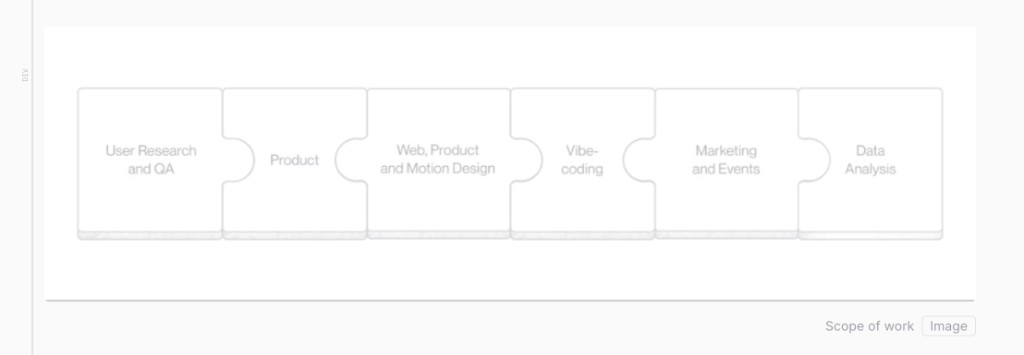
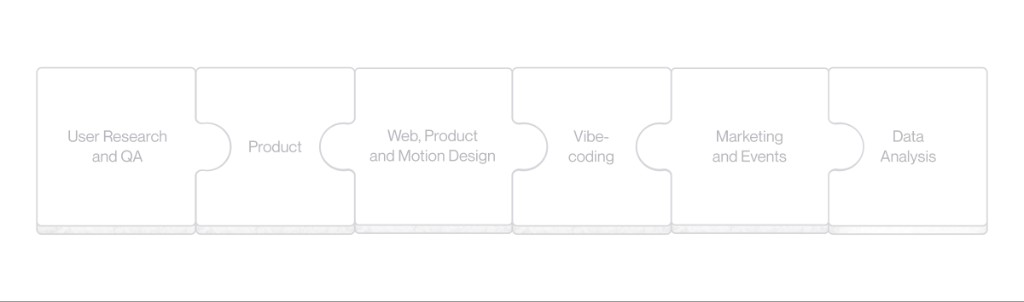
Roadrunner: update scope-of-work (my-role) puzzle graphic to 1024×302

diff --git a/src/app/work/adobe-learning-portal-roadrunner-v/page.tsx b/src/app/work/adobe-learning-portal-roadrunner-v/page.tsx
@@ -425,7 +425,7 @@ export default function AdobeLearningPortalPage() {
                   src="/work/adobe-learning-portal-roadrunner-v/my-role.png"
                   alt=""
                   width={1024}
-                  height={355}
+                  height={302}
                   draggable={false}
                   className="block h-auto w-full max-w-full select-none"
                   style={{ borderRadius: 4 }}
